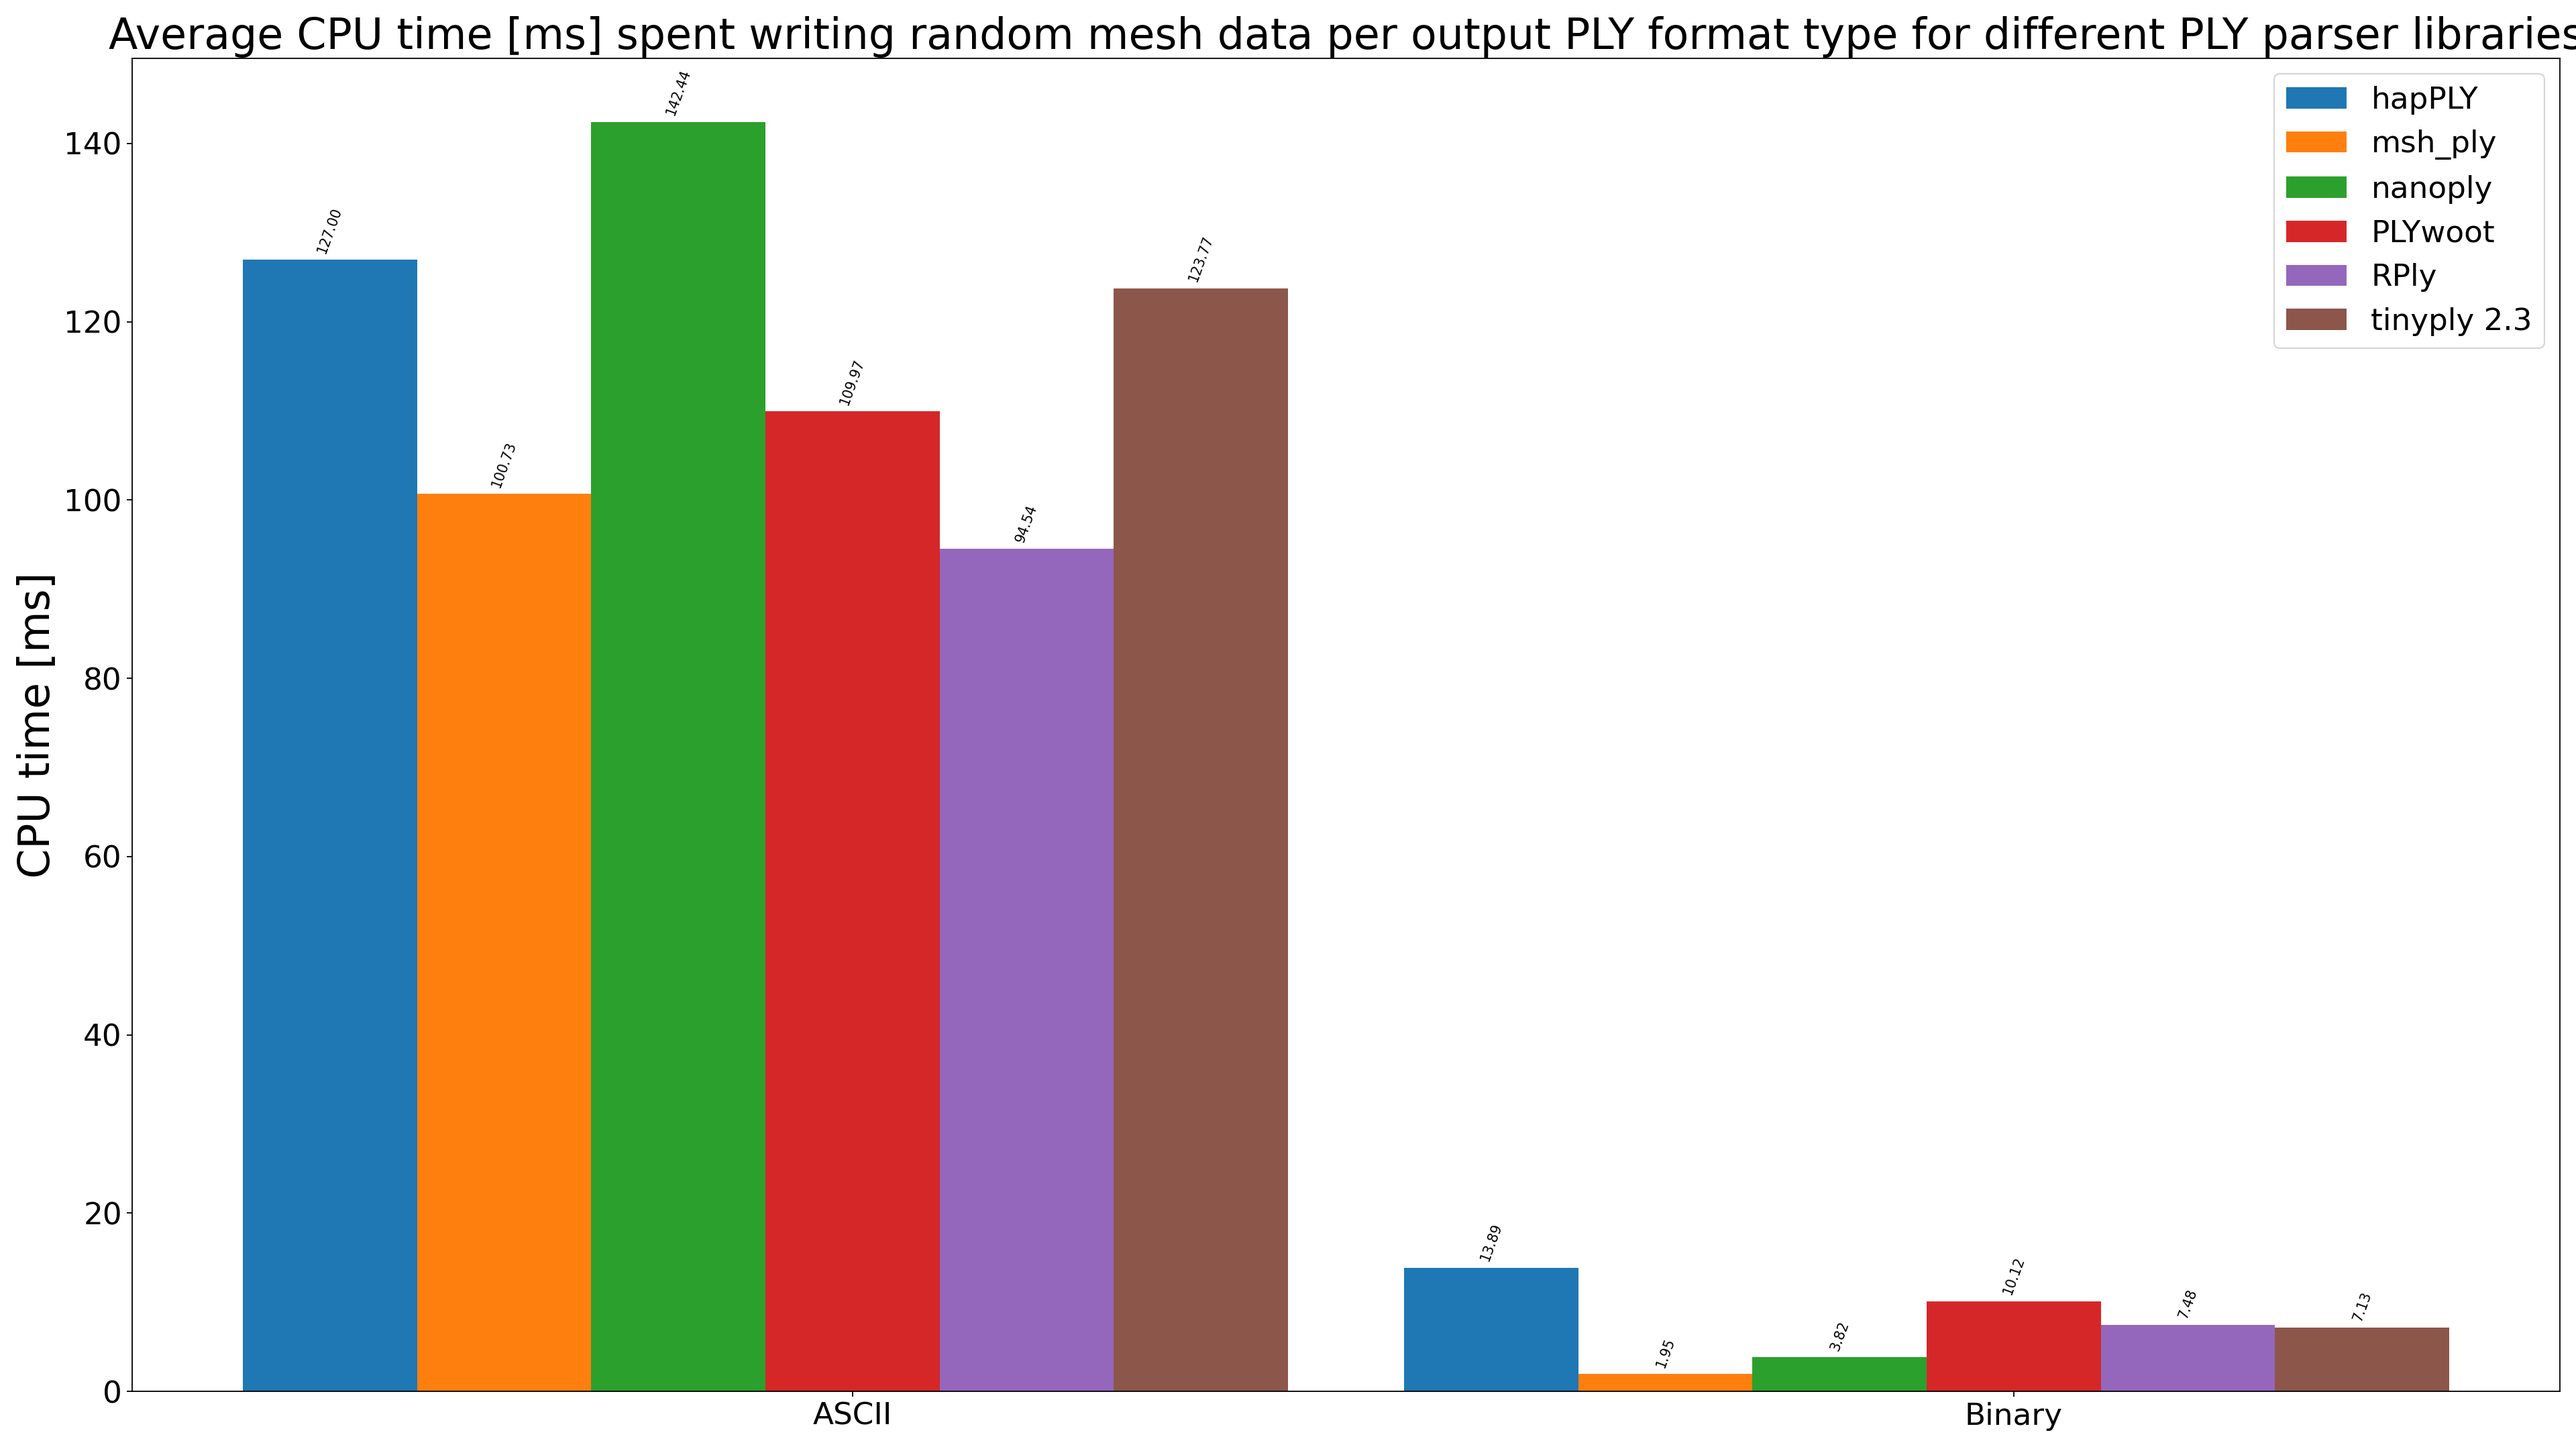
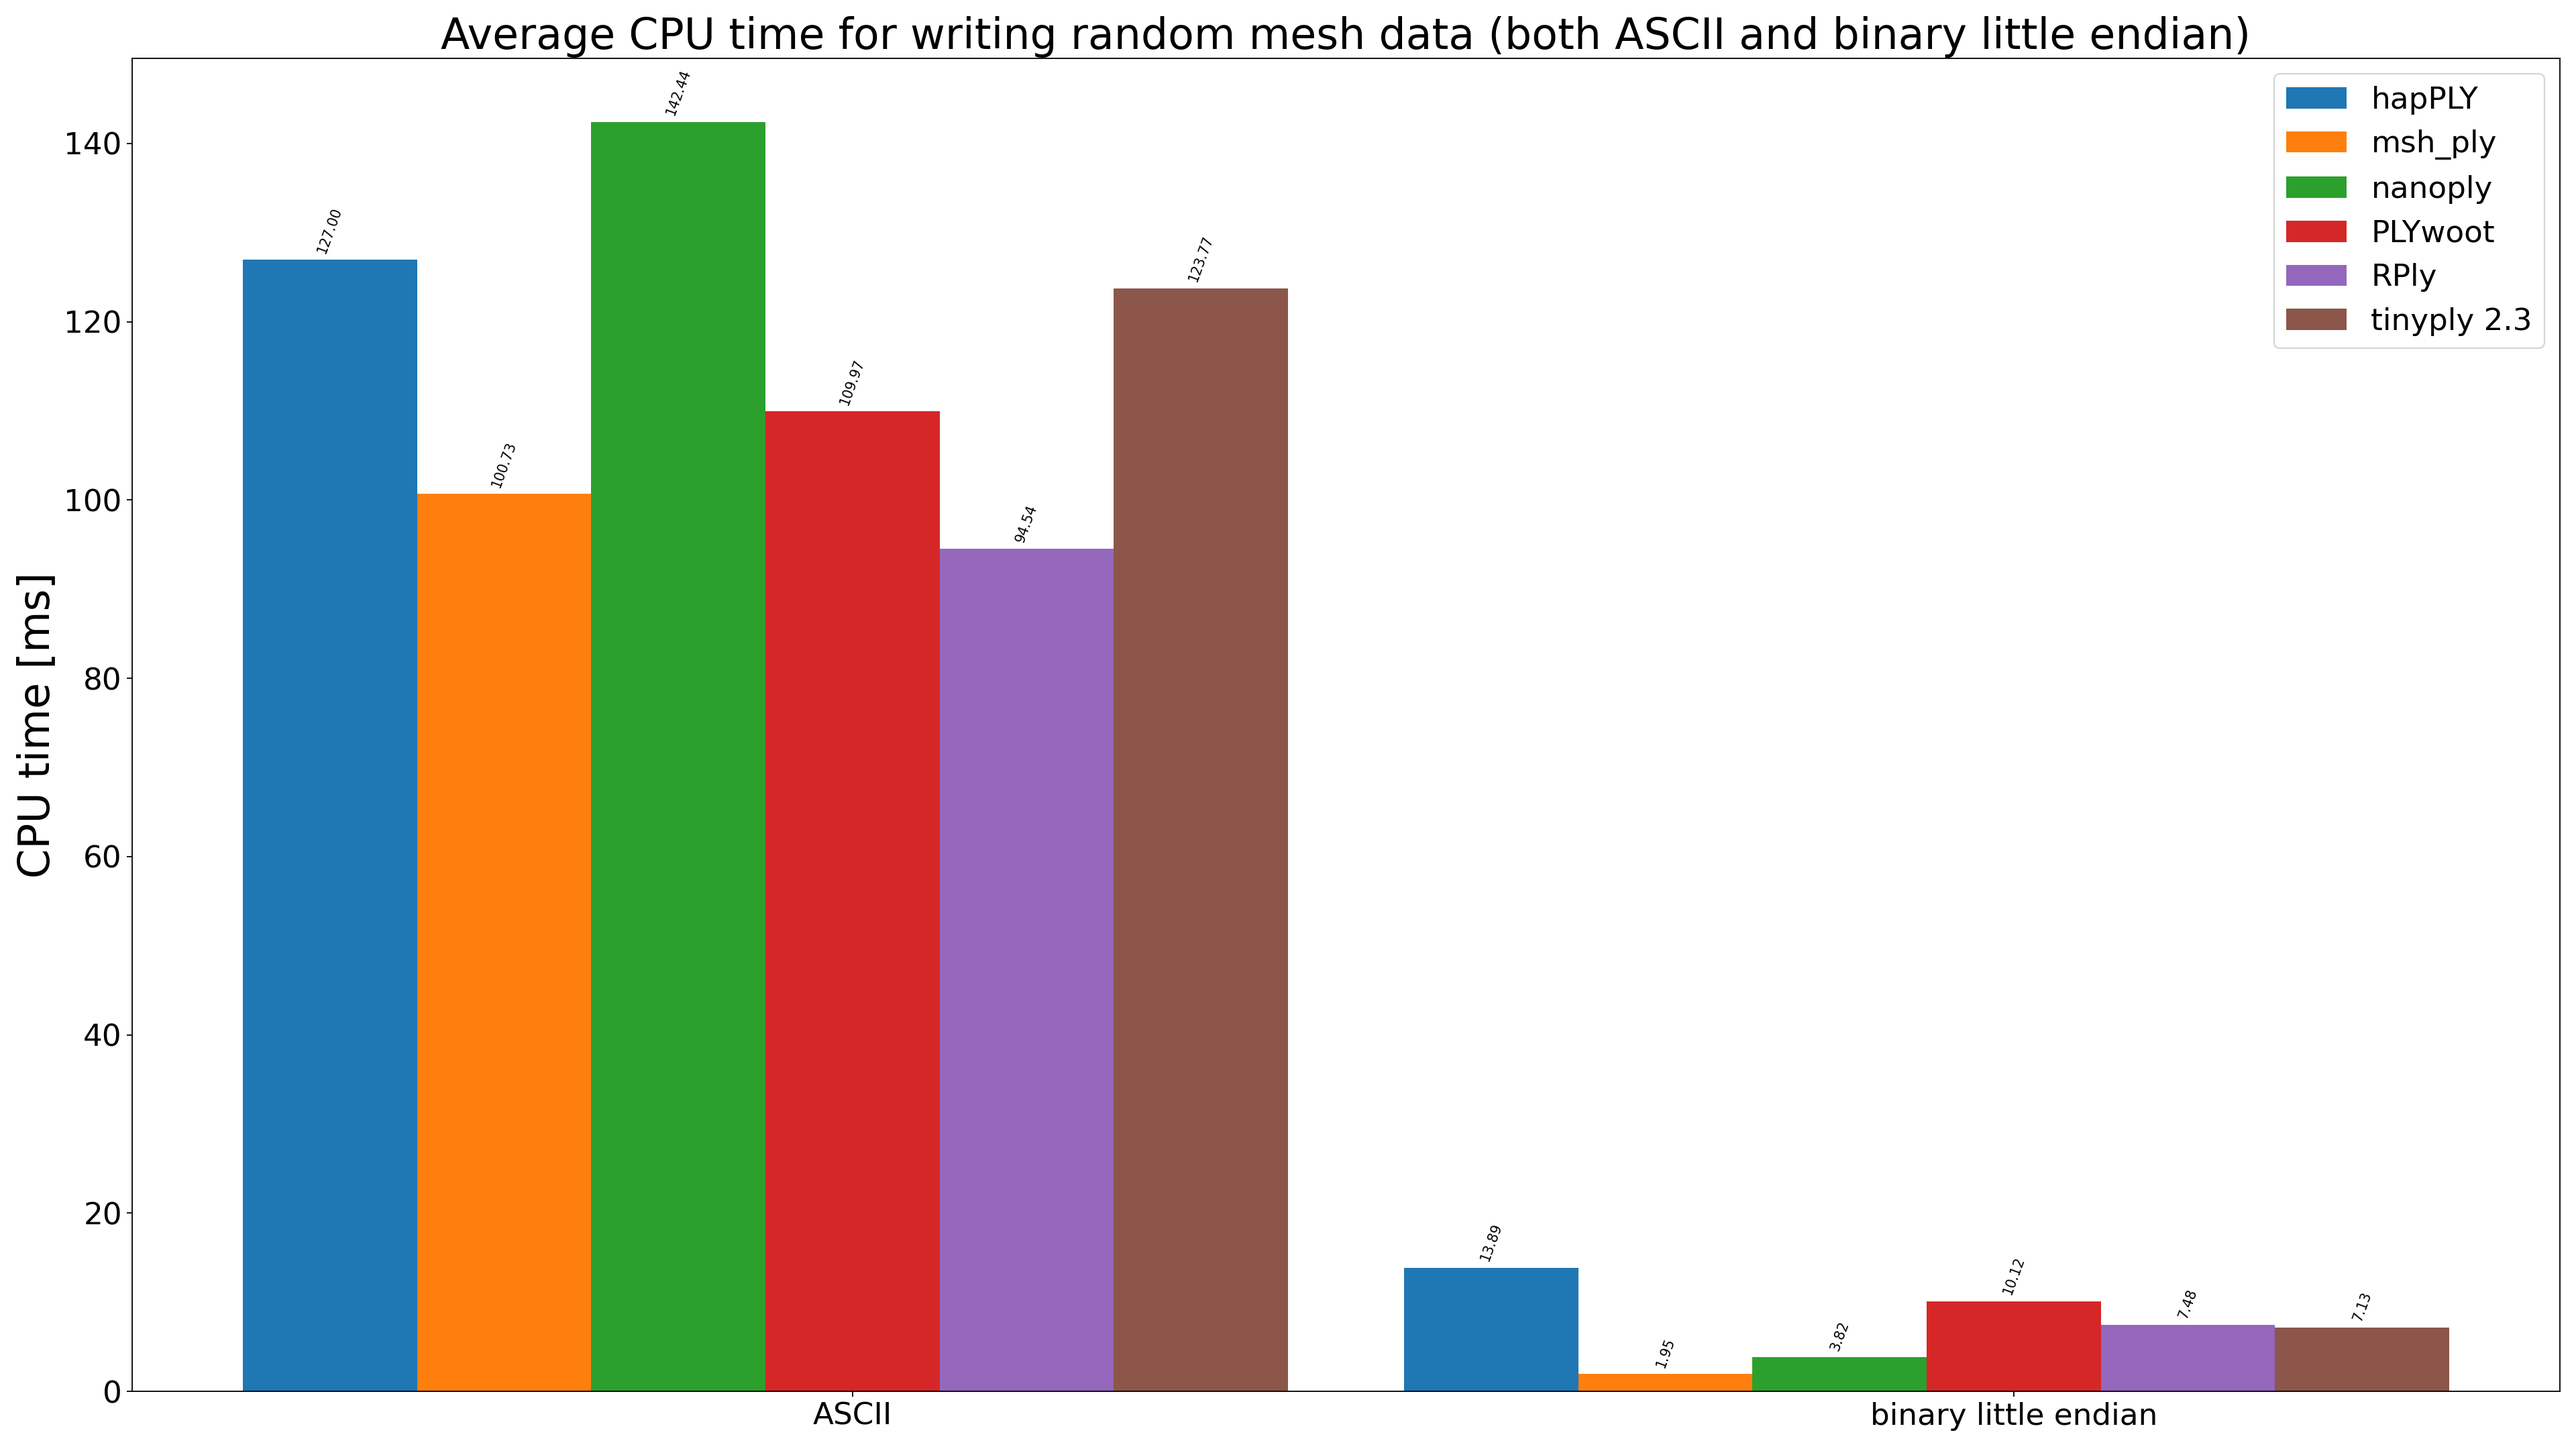
Small tweaks to naming in general

Changed region(s): [[0.0312, 0.0, 1.0, 0.031], [0.7188, 0.9616, 0.8438, 0.9926]]

diff --git a/scripts/plot_graph.py b/scripts/plot_graph.py
@@ -88,7 +88,7 @@ def render_parse_cpu_time_graph(benchmarks, output_png_file):
                  output_png_file,
                  'cpu_time',
                  parse_benchmark_parser_names,
-                 'Average CPU time [%s] spent parsing various models by different PLY parser libraries' % time_unit,
+                 'Average CPU time for parsing various models using different PLY libraries',
                  'CPU time [%s]' % time_unit
     )
 
@@ -98,11 +98,11 @@ def render_write_cpu_time_graph(benchmarks, output_png_file):
                  output_png_file,
                  'cpu_time',
                  write_benchmark_parser_names,
-                 'Average CPU time [%s] spent writing random mesh data per output PLY format type for different PLY parser libraries' % time_unit,
+                 'Average CPU time for writing random mesh data (both ASCII and binary little endian)',
                  'CPU time [%s]' % time_unit
     )
 
-def render_parse_bytes_per_second_graph(benchmarks, output_png_file):
+def render_parse_transfer_speed_graph(benchmarks, output_png_file):
     for benchmark in benchmarks:
         benchmark['mib_per_second'] = benchmark['bytes_per_second'] / (1024 * 1024)
 
@@ -110,11 +110,11 @@ def render_parse_bytes_per_second_graph(benchmarks, output_png_file):
                  output_png_file,
                  'mib_per_second',
                  parse_benchmark_parser_names,
-                 'Read performance [MiB/s] for different models and PLY parser libraries',
+                 'Data transfer speeds while parsing various models using different PLY libraries',
                  'Read performance [MiB/s]'
     )
 
-def render_write_bytes_per_second_graph(benchmarks, output_png_file):
+def render_write_transfer_speed_graph(benchmarks, output_png_file):
     for benchmark in benchmarks:
         benchmark['mib_per_second'] = benchmark['bytes_per_second'] / (1024 * 1024)
 
@@ -122,7 +122,7 @@ def render_write_bytes_per_second_graph(benchmarks, output_png_file):
                  output_png_file,
                  'mib_per_second',
                  write_benchmark_parser_names,
-                 'Write performance [MiB/s] per output PLY format type for different PLY parser libraries',
+                 'Data transfer speeds while writing a uniform triangle mesh using different PLY libraries',
                  'Write performance [MiB/s]'
     )
 
@@ -131,7 +131,7 @@ if __name__ == '__main__':
             prog='plot_graph.py',
             description='Plots various graphs given the JSON output generated by PLYbench.')
 
-    graph_type_choices = ['parse_cpu_time', 'write_cpu_time', 'parse_bytes_per_second', 'write_bytes_per_second']
+    graph_type_choices = ['parse_cpu_time', 'write_cpu_time', 'parse_transfer_speed', 'write_transfer_speed']
 
     parser.add_argument('-i', '--input',
                         help='input JSON file generated by PLYbench, in case this is not specified, stdin is used instead')
@@ -157,7 +157,7 @@ if __name__ == '__main__':
             render_parse_cpu_time_graph(benchmarks, png_file)
         elif args.type == 'write_cpu_time':
             render_write_cpu_time_graph(benchmarks, png_file)
-        elif args.type == 'parse_bytes_per_second':
-            render_parse_bytes_per_second_graph(benchmarks, png_file)
-        elif args.type == 'write_bytes_per_second':
-            render_write_bytes_per_second_graph(benchmarks, png_file)
+        elif args.type == 'parse_transfer_speed':
+            render_parse_transfer_speed_graph(benchmarks, png_file)
+        elif args.type == 'write_transfer_speed':
+            render_write_transfer_speed_graph(benchmarks, png_file)

diff --git a/src/plybench.cpp b/src/plybench.cpp
@@ -201,16 +201,16 @@ static void BM_WriteTinyply(benchmark::State &state, Format format)
   BENCHMARK_CAPTURE(BM_ParsePlyLib, name, (filename))->Unit(benchmark::kMillisecond);            \
   BENCHMARK_CAPTURE(BM_ParseRPly, name, (filename))->Unit(benchmark::kMillisecond);
 
-BENCHMARK_PARSE("Asian Dragon (binary b/e)", "models/xyzrgb_dragon.ply")
-BENCHMARK_CAPTURE(BM_ParseTinyply, "Asian Dragon (binary b/e)", "models/xyzrgb_dragon.ply")
+BENCHMARK_PARSE("Asian Dragon (binary big endian)", "models/xyzrgb_dragon.ply")
+BENCHMARK_CAPTURE(BM_ParseTinyply, "Asian Dragon (binary big endian)", "models/xyzrgb_dragon.ply")
     ->Unit(benchmark::kMillisecond);
 
-BENCHMARK_PARSE("Lucy (binary b/e)", "models/lucy.ply");
-BENCHMARK_CAPTURE(BM_ParseTinyply, "Lucy (binary b/e)", "models/lucy.ply")
+BENCHMARK_PARSE("Lucy (binary big endian)", "models/lucy.ply");
+BENCHMARK_CAPTURE(BM_ParseTinyply, "Lucy (binary big endian)", "models/lucy.ply")
     ->Unit(benchmark::kMillisecond);
 
-BENCHMARK_PARSE("DOOM Combat Scene (binary l/e)", "models/Doom combat scene.ply");
-BENCHMARK_CAPTURE(BM_ParseTinyply, "DOOM Combat Scene (binary l/e)", "models/Doom combat scene.ply")
+BENCHMARK_PARSE("DOOM Combat Scene (binary little endian)", "models/Doom combat scene.ply");
+BENCHMARK_CAPTURE(BM_ParseTinyply, "DOOM Combat Scene (binary little endian)", "models/Doom combat scene.ply")
     ->Unit(benchmark::kMillisecond);
 
 BENCHMARK_PARSE("Dragon (ASCII)", "models/dragon_vrip.ply");
